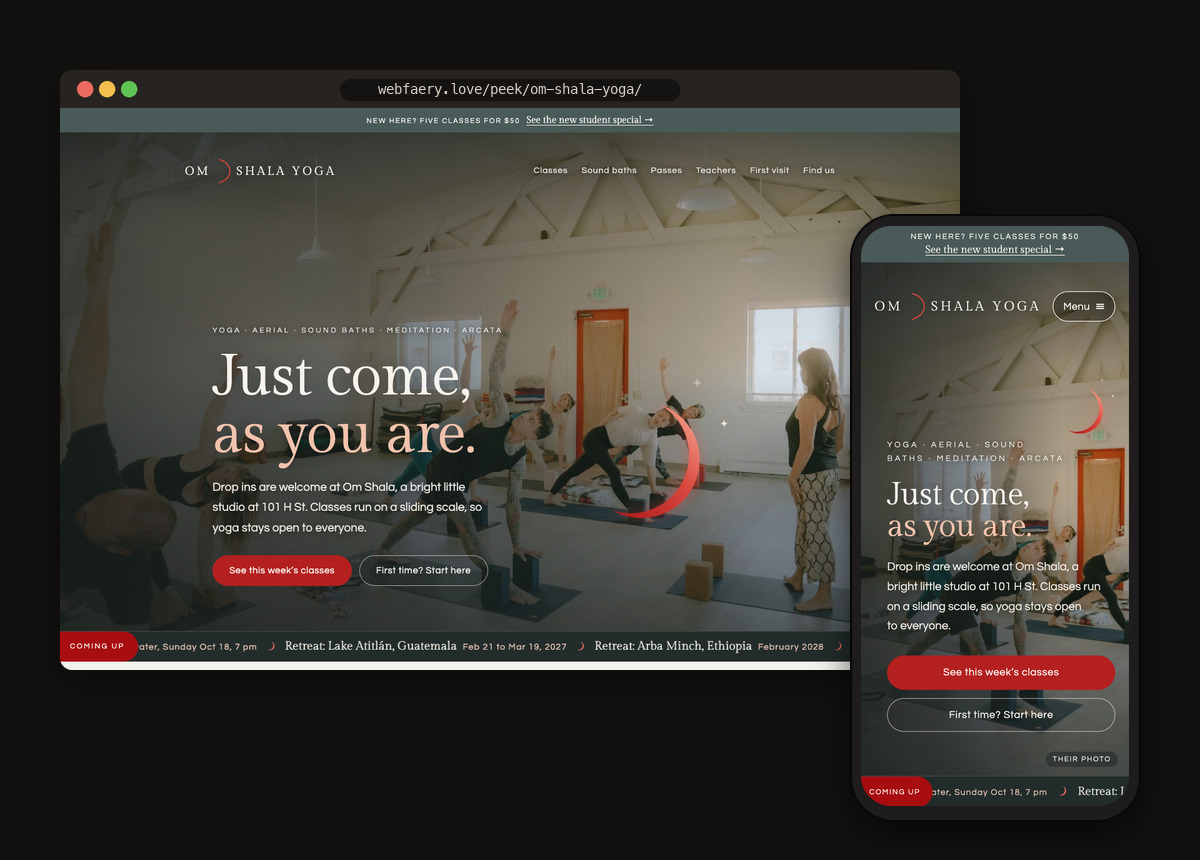
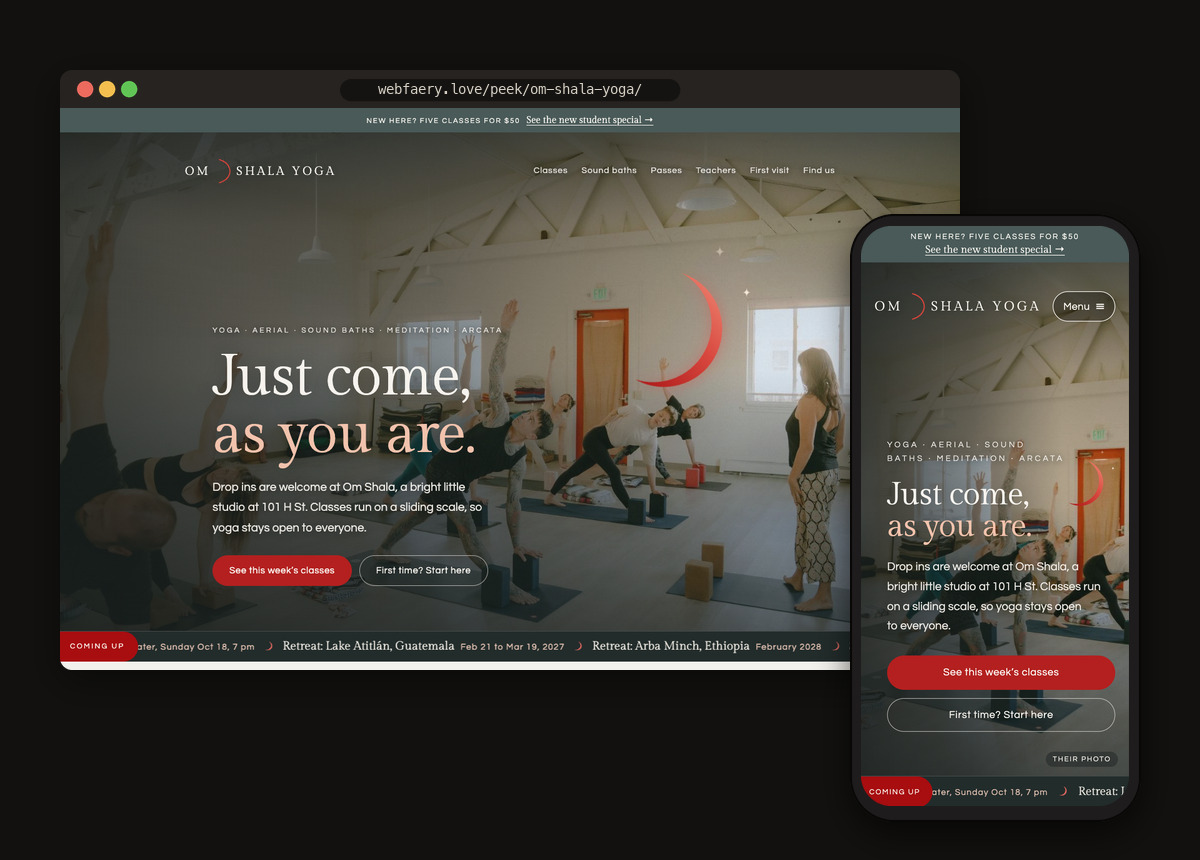
Om Shala mockup: the slim moon hangs on the plain wall now, off everyone's faces (review fixes)
On wider screens the crescent rises up and right with the photo, onto the wall between the door and the window, just above a student's raised hand (it used to cross the front students' heads). The offset follows the photo's scale, stays clear of the menu on short screens and keeps off the words.
On phones it sits at the right of the heading, out of the flow, so the hero is no taller than before the moon came back (the Coming up strip and First time button land where they did). Tall tablets get it above the words, on the same wall.
The top horn is a slightly deeper coral so its tip holds on the bright wall.
Share preview rebuilt.

diff --git a/peek/om-shala-yoga/index.html b/peek/om-shala-yoga/index.html
@@ -140,12 +140,22 @@
   /* the crescent moon beside the words (Oct 12, Pollen: "redraw the moon as a slim crescent"): a thin three day moon, the lit
      circle minus the same circle shifted a little left, so it tapers to two sharp horns. Tilted like an evening moon, lit side
      toward the set sun, in their crescent red with a faint glow and two small stars. Nothing behind it, so it reads as a crescent. */
-  .hero-arc { position: absolute; left: calc(100% - 6px); top: 50%; translate: 0 -56%; width: clamp(132px, 14.6vw, 194px); height: auto; pointer-events: none; overflow: visible;
-    filter: drop-shadow(0 0 7px rgba(210, 67, 59, 0.42)); }
-  /* up to 940 (tablets and phones) the moon sits small above the words at the right, in the flow, so it stays whole on
-     screen and clear of the menu even on short phones */
-  @media (max-width: 940px) { .hero-arc { position: relative; display: block; left: auto; top: auto; translate: none; width: 88px; margin: 0 0 8px auto; } }
-  @media (max-width: 560px) { .hero-arc { width: 70px; margin-bottom: 6px; } }
+  .hero-arc { position: absolute; left: calc(100% - 6px); top: 50%; width: clamp(132px, 14.6vw, 194px); height: auto; pointer-events: none; overflow: visible;
+    filter: drop-shadow(0 0 7px rgba(210, 67, 59, 0.42));
+    /* on wider screens it rises up and right with the photo, so it hangs on the plain wall between the door and the window,
+       just above a student's raised hand, and off everyone's faces (the photo scales with the screen, so the offset does too;
+       it stops short of the menu on short screens) */
+    translate: clamp(-120px, calc(max(13.89vw, 19.58vh - 8px) - 164px - max(0px, 540px - 50vw)), 240px) calc(-56% + clamp(min(-105px, 601px - 94vh), calc(418px - max(56.4vh - 24px, 399px) - max(10vw, 14.1vh - 6px, 99.75px) - max(0px, 165px - 15vw)), 0px)); }
+  /* up to 940 (tablets and phones) the moon sits small at the right of the heading, level with "Just come, as you are.",
+     out of the flow, so it adds no height to the hero and stays well clear of the menu. On tall tablets there is room
+     above the words, so it hangs there instead, on the same plain wall as on wider screens */
+  @media (max-width: 940px) { .hero-arc { --mw: 88px; left: auto; right: 0; top: auto; translate: none; width: var(--mw); margin-top: calc(clamp(46px, 8.4vw, 92px) - 0.733 * var(--mw) - var(--lift, 48px)); } }
+  @media (max-width: 940px) and (min-width: 561px) and (min-height: 860px) { .hero-arc { bottom: 100%; margin: 0 0 12px;
+    right: clamp(min(-8px, 706px - 100vw), calc(min(100vw - 20px, 694px) - 46vw - 25.2vh - 74px), 0px); translate: 0 calc(-1 * clamp(0px, 60vh - 540px, 260px)); } }
+  @media (max-width: 560px) { .hero-arc { --mw: 70px; --lift: 40px; } }
+  @media (max-width: 374px) { .hero-arc { --lift: 0px; } }   /* narrow phones and 515 to 629: the label reaches under where a lifted moon */
+  @media (min-width: 515px) and (max-width: 629px) { .hero-arc { --lift: 0px; --mw: 76px; } }   /* would be, so it stays level with the heading */
+  @media (max-width: 360px) { .hero-arc { --mw: 56px; right: -10px; } }
   .hm-lit { fill: url(#hmLit); }
   .hm-star { fill: #f6ead9; transform-box: fill-box; transform-origin: center; }
   .hero-band .label { color: rgba(246, 243, 238, 0.88); text-shadow: 0 1px 10px rgba(10, 14, 14, 0.7); margin-bottom: 18px; }
@@ -719,13 +729,13 @@
   <div class="hero-main gutter">
     <div class="wrap" style="width:100%">
       <div class="hero-copy">
+        <p class="label">Yoga &middot; Aerial &middot; Sound baths &middot; Meditation <span class="nw">&middot; Arcata</span></p>
         <svg class="hero-arc" viewBox="-56 -150 208 254" aria-hidden="true">
-          <defs><linearGradient id="hmLit" x1="0.62" y1="0" x2="0.38" y2="1"><stop offset="0" stop-color="#f19a87"/><stop offset="0.45" stop-color="#d9493f"/><stop offset="1" stop-color="#b3201f"/></linearGradient></defs>
+          <defs><linearGradient id="hmLit" x1="0.62" y1="0" x2="0.38" y2="1"><stop offset="0" stop-color="#ea7d6c"/><stop offset="0.45" stop-color="#d9493f"/><stop offset="1" stop-color="#b3201f"/></linearGradient></defs>
           <g transform="rotate(24)"><path class="hm-lit" id="hm-lit" d="M-10 -99.5A100 100 0 1 1 -10 99.5A100 100 0 0 0 -10 -99.5Z"/></g>
           <path class="hm-star" d="M96 -146Q96 -132 108 -132Q96 -132 96 -118Q96 -132 84 -132Q96 -132 96 -146Z"/>
           <path class="hm-star hm-star2" d="M142 -70Q142 -62 149 -62Q142 -62 142 -54Q142 -62 135 -62Q142 -62 142 -70Z"/>
         </svg>
-        <p class="label">Yoga &middot; Aerial &middot; Sound baths &middot; Meditation <span class="nw">&middot; Arcata</span></p>
         <h1>Just come, <em>as you are.</em></h1>
         <p class="lede">Drop ins are welcome at Om Shala, a bright little studio at 101 H St. Classes run on a sliding scale, so yoga stays open to everyone.</p>
         <div class="cta-row">
